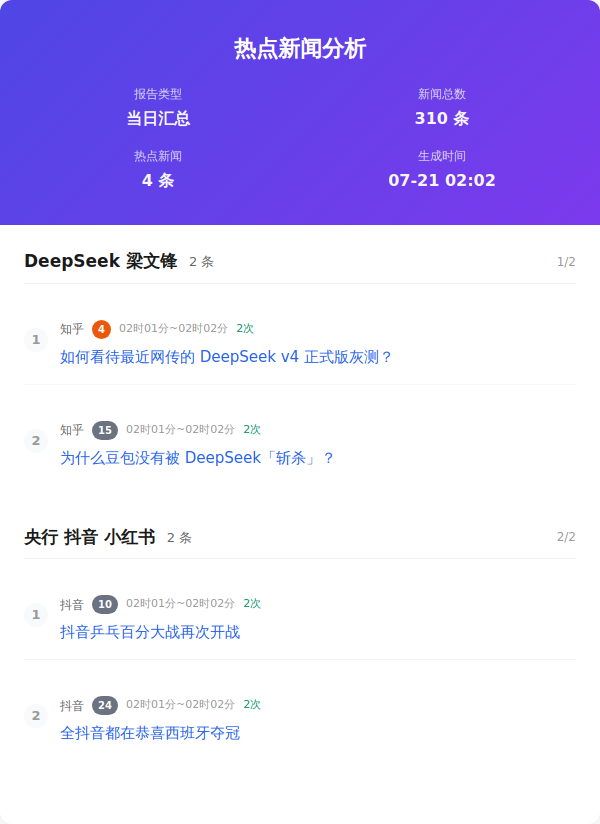
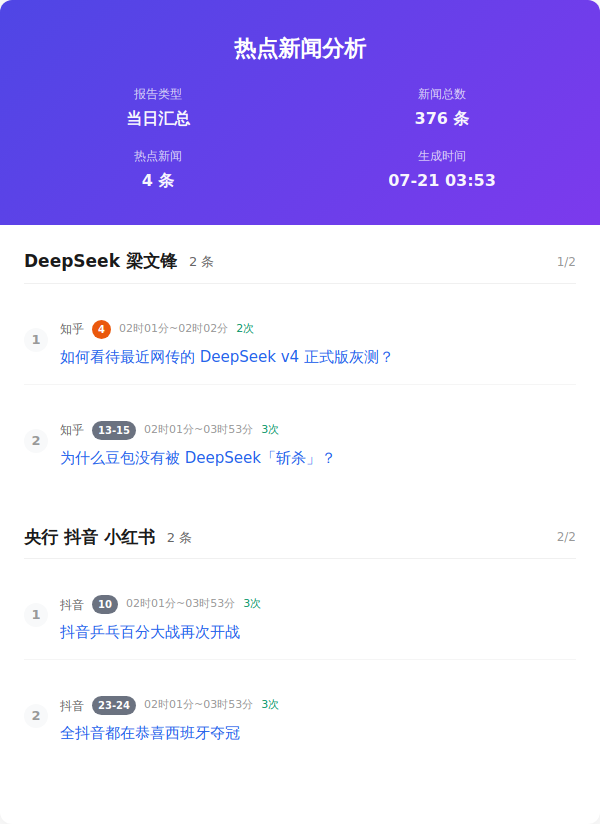
Auto update by GitHub Actions at Tue Jul 21 03:53:54 CST 2026

diff --git a/index.html b/index.html
@@ -357,7 +357,7 @@
                     </div>
                     <div class="info-item">
                         <span class="info-label">新闻总数</span>
-                        <span class="info-value">310 条</span>
+                        <span class="info-value">376 条</span>
                     </div>
                     <div class="info-item">
                         <span class="info-label">热点新闻</span>
@@ -365,7 +365,7 @@
                     </div>
                     <div class="info-item">
                         <span class="info-label">生成时间</span>
-                        <span class="info-value">07-21 02:02</span>
+                        <span class="info-value">07-21 03:53</span>
                     </div>
                 </div>
             </div>
@@ -393,7 +393,7 @@
                         <div class="news-number">2</div>
                         <div class="news-content">
                             <div class="news-header">
-                                <span class="source-name">知乎</span><span class="rank-num ">15</span><span class="time-info">02时01分~02时02分</span><span class="count-info">2次</span>
+                                <span class="source-name">知乎</span><span class="rank-num ">13-15</span><span class="time-info">02时01分~03时53分</span><span class="count-info">3次</span>
                             </div>
                             <div class="news-title"><a href="https://www.zhihu.com/question/2061575313973416591" target="_blank" class="news-link">为什么豆包没有被 DeepSeek「斩杀」？</a>
                             </div>
@@ -412,7 +412,7 @@
                         <div class="news-number">1</div>
                         <div class="news-content">
                             <div class="news-header">
-                                <span class="source-name">抖音</span><span class="rank-num ">10</span><span class="time-info">02时01分~02时02分</span><span class="count-info">2次</span>
+                                <span class="source-name">抖音</span><span class="rank-num ">10</span><span class="time-info">02时01分~03时53分</span><span class="count-info">3次</span>
                             </div>
                             <div class="news-title"><a href="https://www.douyin.com/hot/2578846" target="_blank" class="news-link">抖音乒乓百分大战再次开战</a>
                             </div>
@@ -422,7 +422,7 @@
                         <div class="news-number">2</div>
                         <div class="news-content">
                             <div class="news-header">
-                                <span class="source-name">抖音</span><span class="rank-num ">24</span><span class="time-info">02时01分~02时02分</span><span class="count-info">2次</span>
+                                <span class="source-name">抖音</span><span class="rank-num ">23-24</span><span class="time-info">02时01分~03时53分</span><span class="count-info">3次</span>
                             </div>
                             <div class="news-title"><a href="https://www.douyin.com/hot/2577840" target="_blank" class="news-link">全抖音都在恭喜西班牙夺冠</a>
                             </div>

diff --git a/output/2026年07月21日/html/当日汇总.html b/output/2026年07月21日/html/当日汇总.html
@@ -357,7 +357,7 @@
                     </div>
                     <div class="info-item">
                         <span class="info-label">新闻总数</span>
-                        <span class="info-value">310 条</span>
+                        <span class="info-value">376 条</span>
                     </div>
                     <div class="info-item">
                         <span class="info-label">热点新闻</span>
@@ -365,7 +365,7 @@
                     </div>
                     <div class="info-item">
                         <span class="info-label">生成时间</span>
-                        <span class="info-value">07-21 02:02</span>
+                        <span class="info-value">07-21 03:53</span>
                     </div>
                 </div>
             </div>
@@ -393,7 +393,7 @@
                         <div class="news-number">2</div>
                         <div class="news-content">
                             <div class="news-header">
-                                <span class="source-name">知乎</span><span class="rank-num ">15</span><span class="time-info">02时01分~02时02分</span><span class="count-info">2次</span>
+                                <span class="source-name">知乎</span><span class="rank-num ">13-15</span><span class="time-info">02时01分~03时53分</span><span class="count-info">3次</span>
                             </div>
                             <div class="news-title"><a href="https://www.zhihu.com/question/2061575313973416591" target="_blank" class="news-link">为什么豆包没有被 DeepSeek「斩杀」？</a>
                             </div>
@@ -412,7 +412,7 @@
                         <div class="news-number">1</div>
                         <div class="news-content">
                             <div class="news-header">
-                                <span class="source-name">抖音</span><span class="rank-num ">10</span><span class="time-info">02时01分~02时02分</span><span class="count-info">2次</span>
+                                <span class="source-name">抖音</span><span class="rank-num ">10</span><span class="time-info">02时01分~03时53分</span><span class="count-info">3次</span>
                             </div>
                             <div class="news-title"><a href="https://www.douyin.com/hot/2578846" target="_blank" class="news-link">抖音乒乓百分大战再次开战</a>
                             </div>
@@ -422,7 +422,7 @@
                         <div class="news-number">2</div>
                         <div class="news-content">
                             <div class="news-header">
-                                <span class="source-name">抖音</span><span class="rank-num ">24</span><span class="time-info">02时01分~02时02分</span><span class="count-info">2次</span>
+                                <span class="source-name">抖音</span><span class="rank-num ">23-24</span><span class="time-info">02时01分~03时53分</span><span class="count-info">3次</span>
                             </div>
                             <div class="news-title"><a href="https://www.douyin.com/hot/2577840" target="_blank" class="news-link">全抖音都在恭喜西班牙夺冠</a>
                             </div>